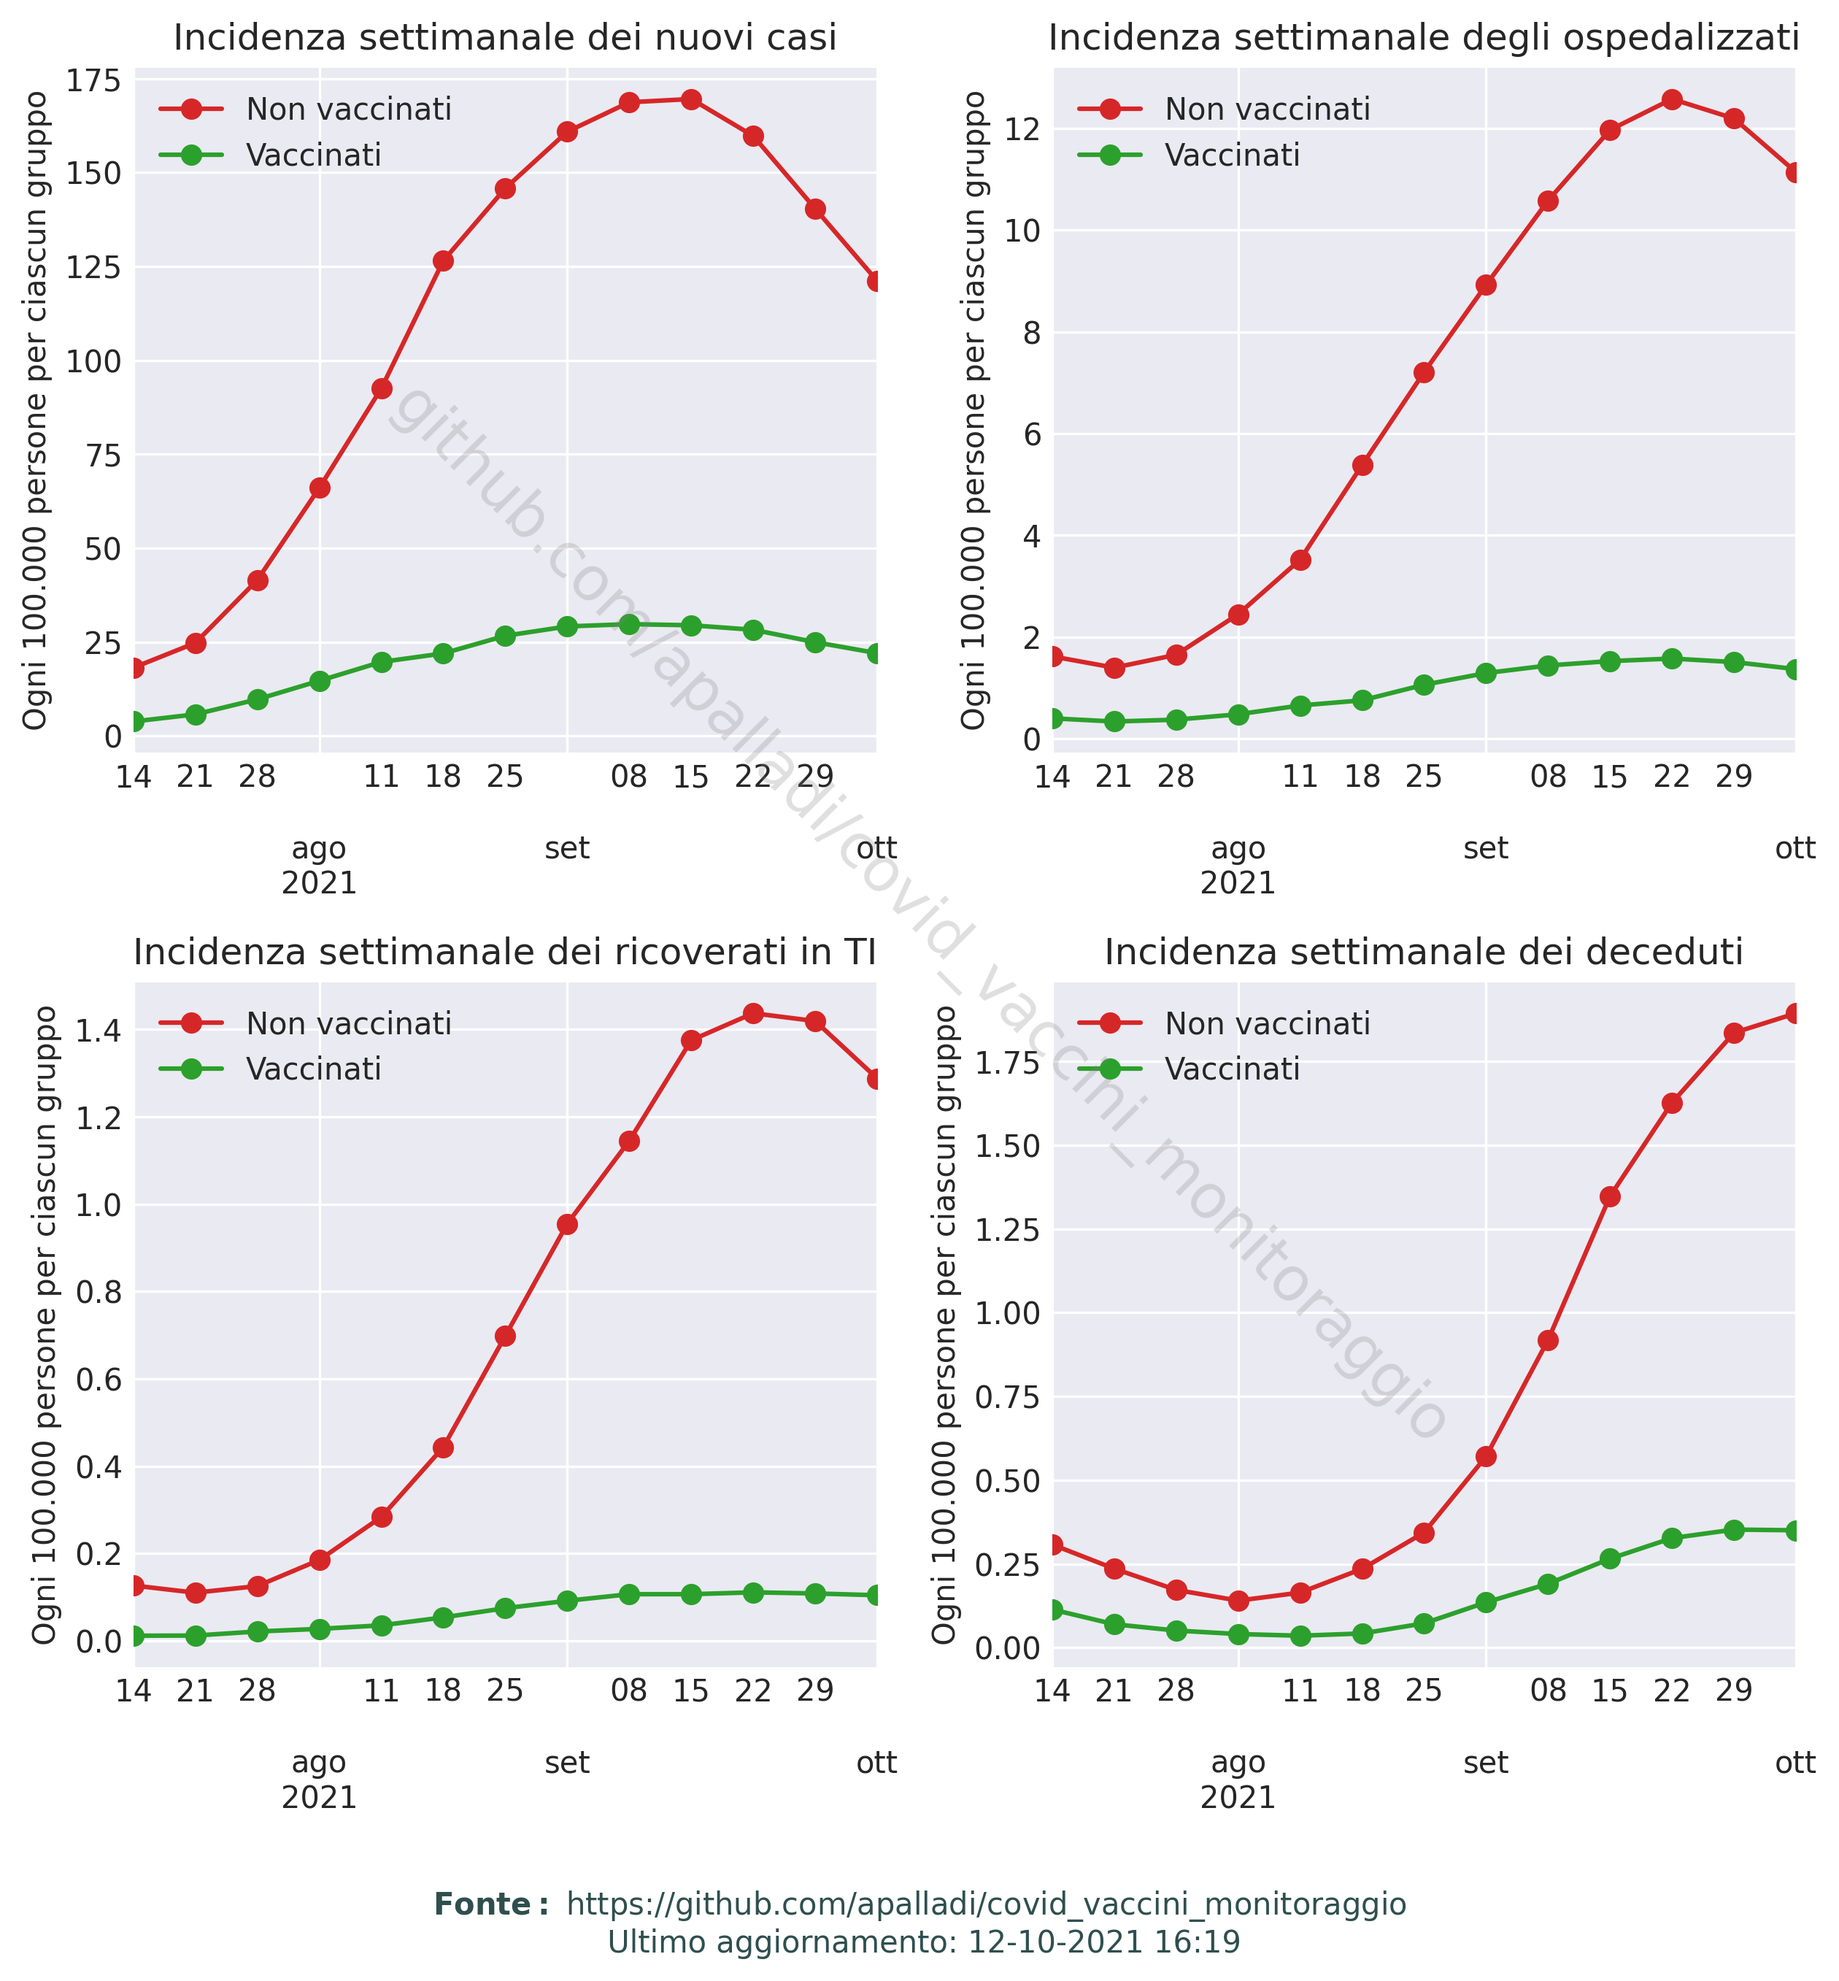
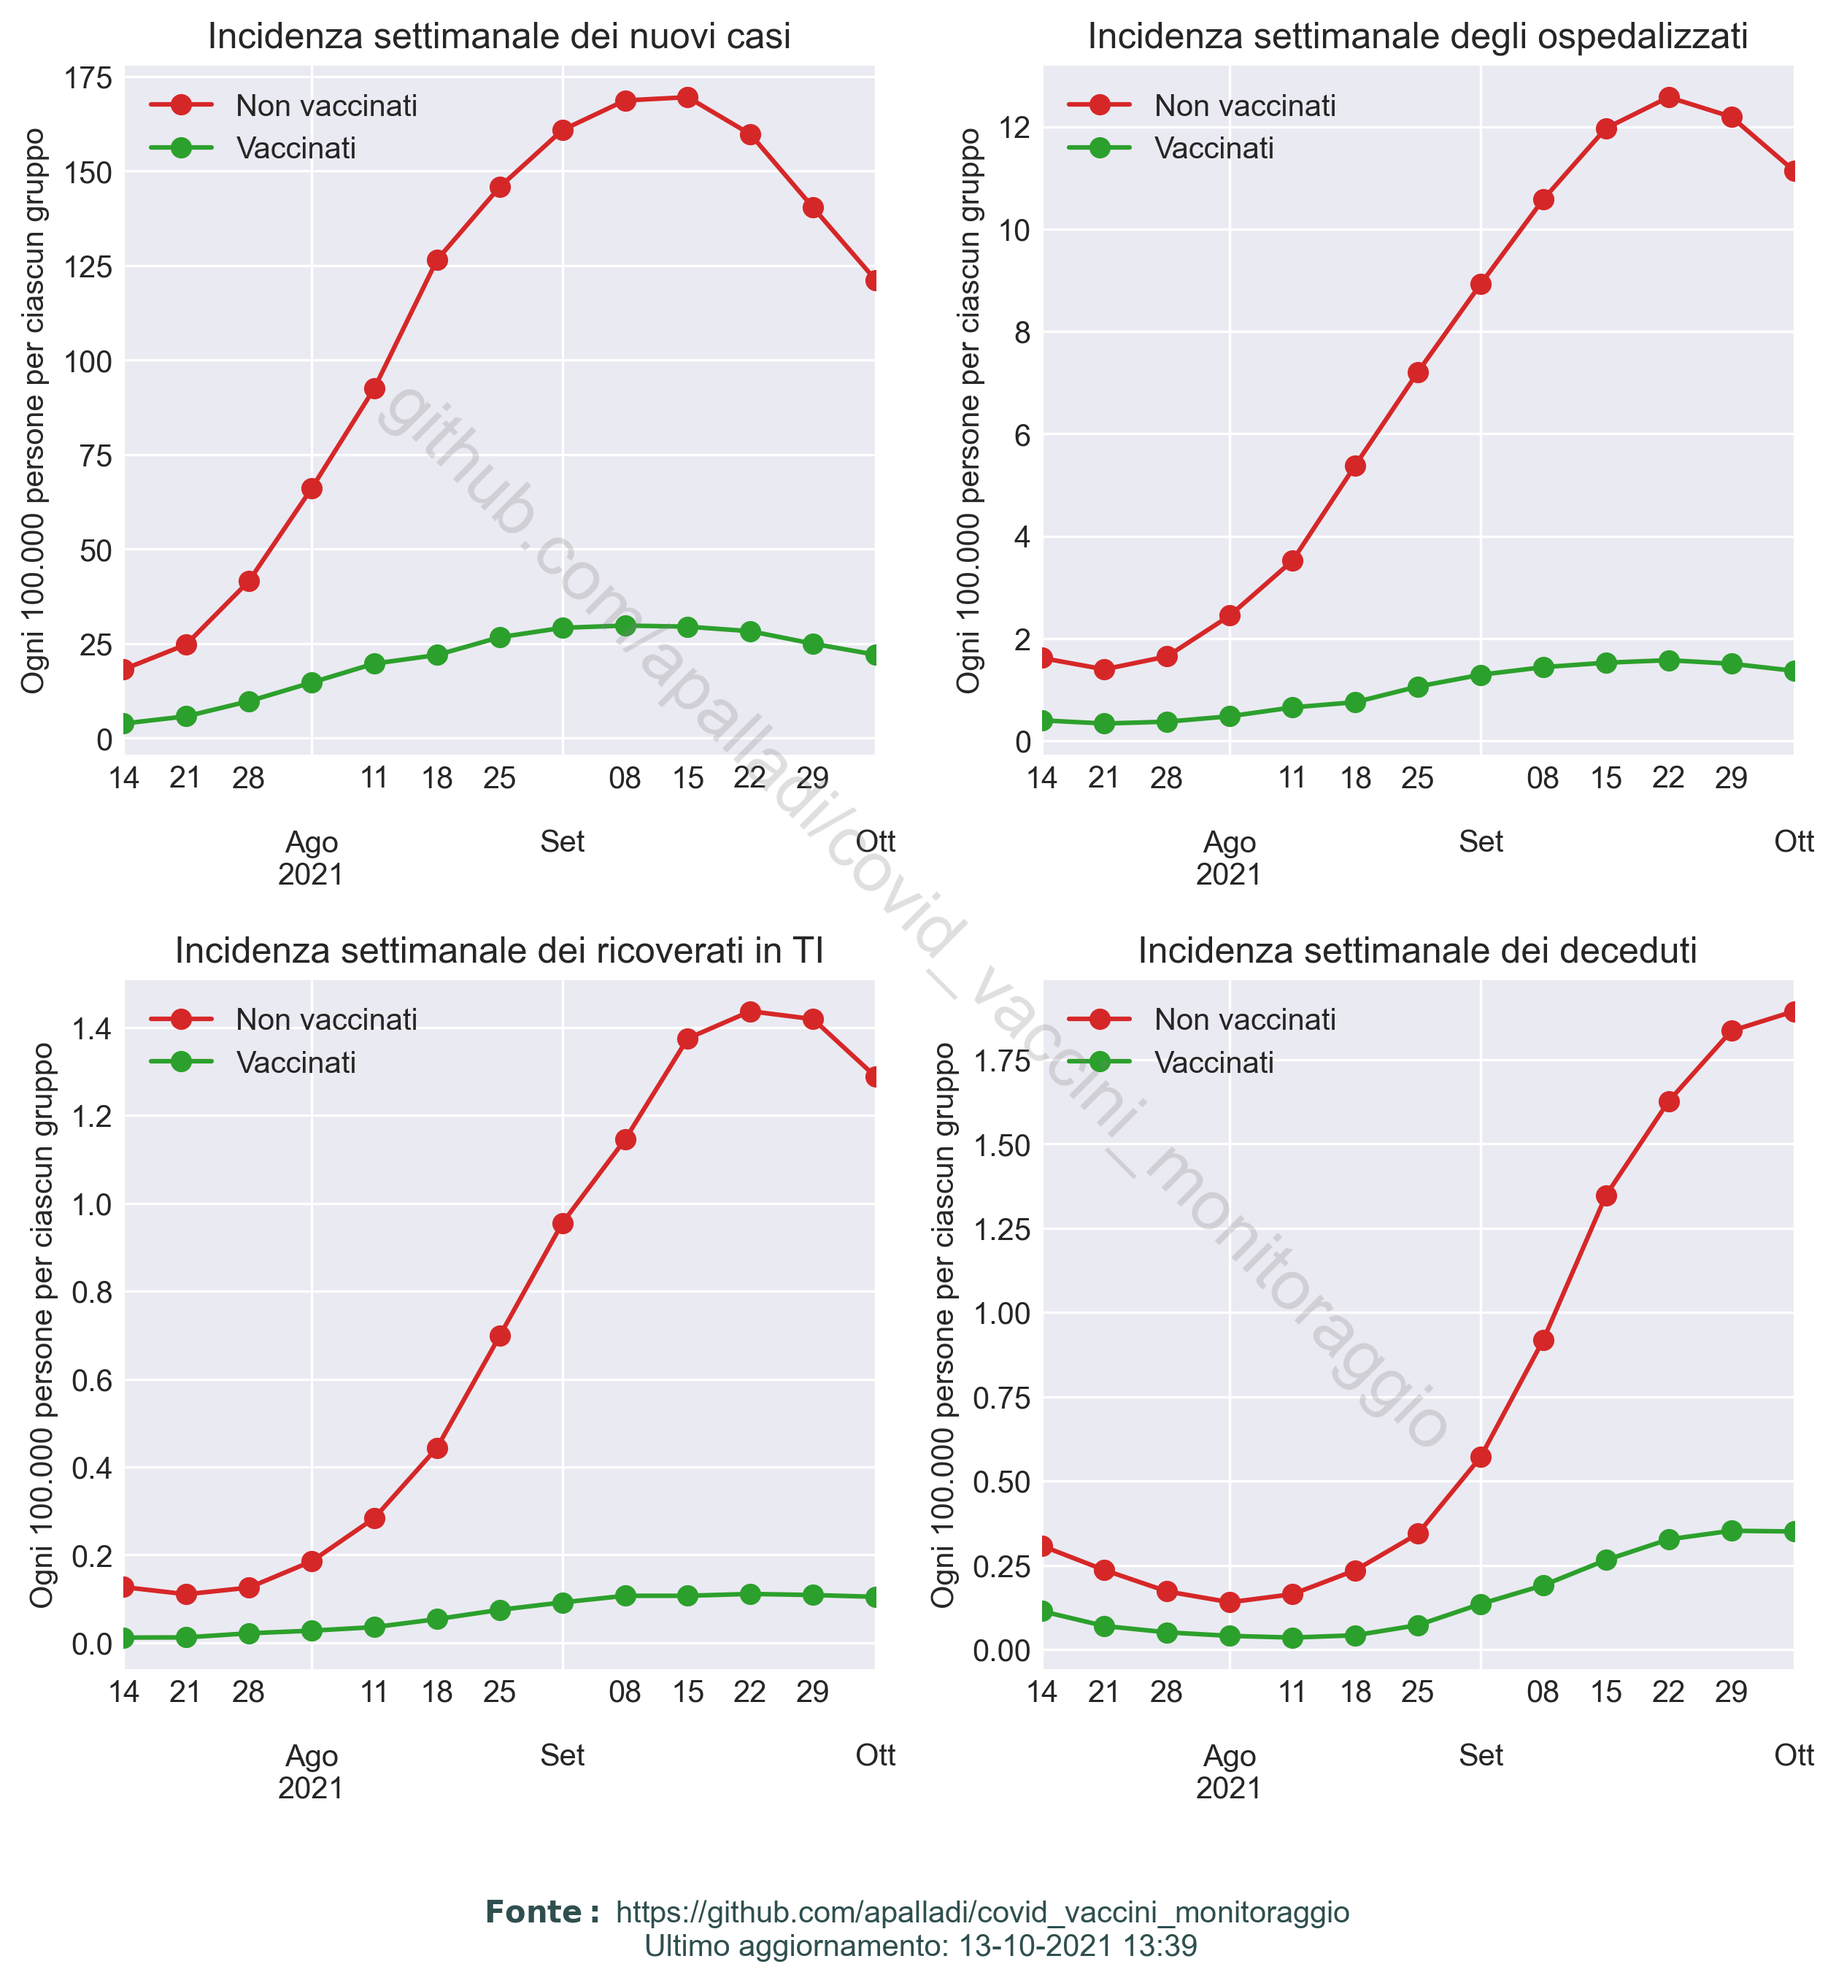
andamento_epidemia: capitalizza major tick labels

diff --git a/scripts/andamento_epidemia.py b/scripts/andamento_epidemia.py
@@ -5,6 +5,7 @@ from os import chdir, path
 import matplotlib.pyplot as plt
 import pandas as pd
 
+from custom.plots import get_cap_labels
 from custom.preprocessing_dataframe import compute_incidence
 from custom.watermarks import add_watermark
 
@@ -13,6 +14,9 @@ from custom.watermarks import add_watermark
 def which_axe(axis):
     """ Imposta proprietà grafico """
     axis.set_xlabel("")
+    x_ticks, x_label = get_cap_labels(axis)
+    axis.set_xticks(x_ticks)
+    axis.set_xticklabels(x_label)
     axis.legend(["Non vaccinati", "Vaccinati"])
     axis.grid()
 
@@ -100,7 +104,6 @@ def plot_rapporto_tassi(show=False):
                                                    color="red")
     (df_tassi.iloc[:, 6]/df_tassi.iloc[:, 7]).plot(label="Decesso",
                                                    color="gray")
-
     plt.title("Rapporto fra le incidenze")
     plt.ylabel("Non vaccinati/vaccinati")
     plt.xlabel("")
@@ -108,8 +111,10 @@ def plot_rapporto_tassi(show=False):
     plt.grid()
     plt.tight_layout()
 
-    # Add watermarks
+    # Set labels and watermarks
     ax = plt.gca()
+    x_ticks, x_label = get_cap_labels(ax)
+    plt.xticks(x_ticks, x_label)
     add_watermark(fig, ax.xaxis.label.get_fontsize())
 
     plt.savefig("../risultati/rapporto_tra_tassi.png",
@@ -161,7 +166,7 @@ if __name__ == "__main__":
     chdir(scriptpath)
 
     # Set locale to "it" to parse the month correctly
-    locale.setlocale(locale.LC_ALL, "it_IT.UTF-8")
+    locale.setlocale(locale.LC_TIME, "it_IT")
 
     # Imposta stile grafici
     plt.style.use("seaborn-dark")

diff --git a/scripts/custom/plots.py b/scripts/custom/plots.py
@@ -4,8 +4,17 @@ from datetime import datetime
 from glob import glob
 from re import findall
 
+import matplotlib.pyplot as plt
 from numpy import sort
 from pandas import to_datetime
+
+
+# Funzioni per il plot
+def get_cap_labels(axis):
+    plt.gcf().canvas.draw()
+    x_ticks = axis.get_xticks()
+    new_labels = [lb.get_text().title() for lb in axis.get_xmajorticklabels()]
+    return x_ticks, new_labels
 
 
 def aggiorna_ascissa(last_updated, new_date, x_date, x_label):
